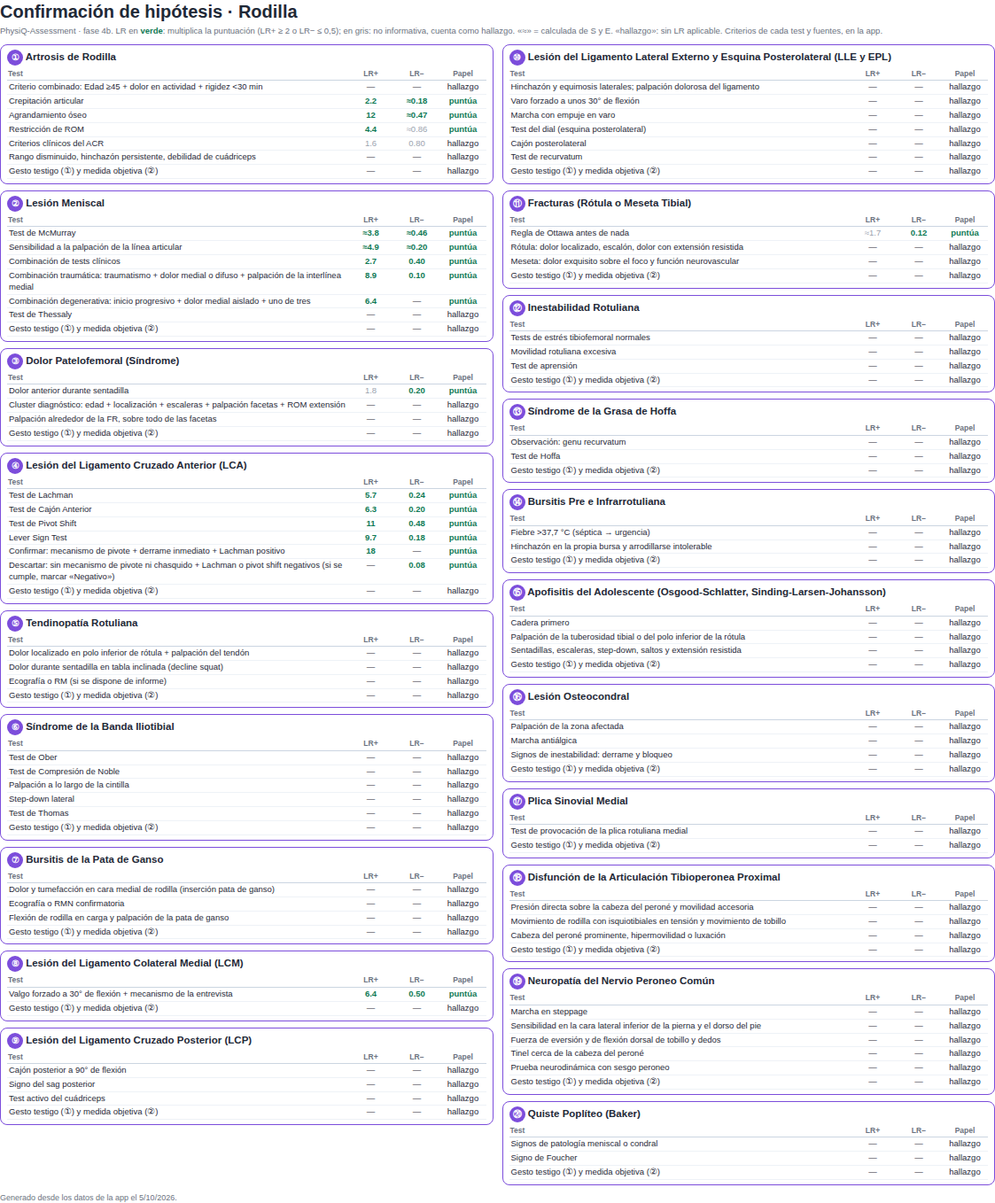
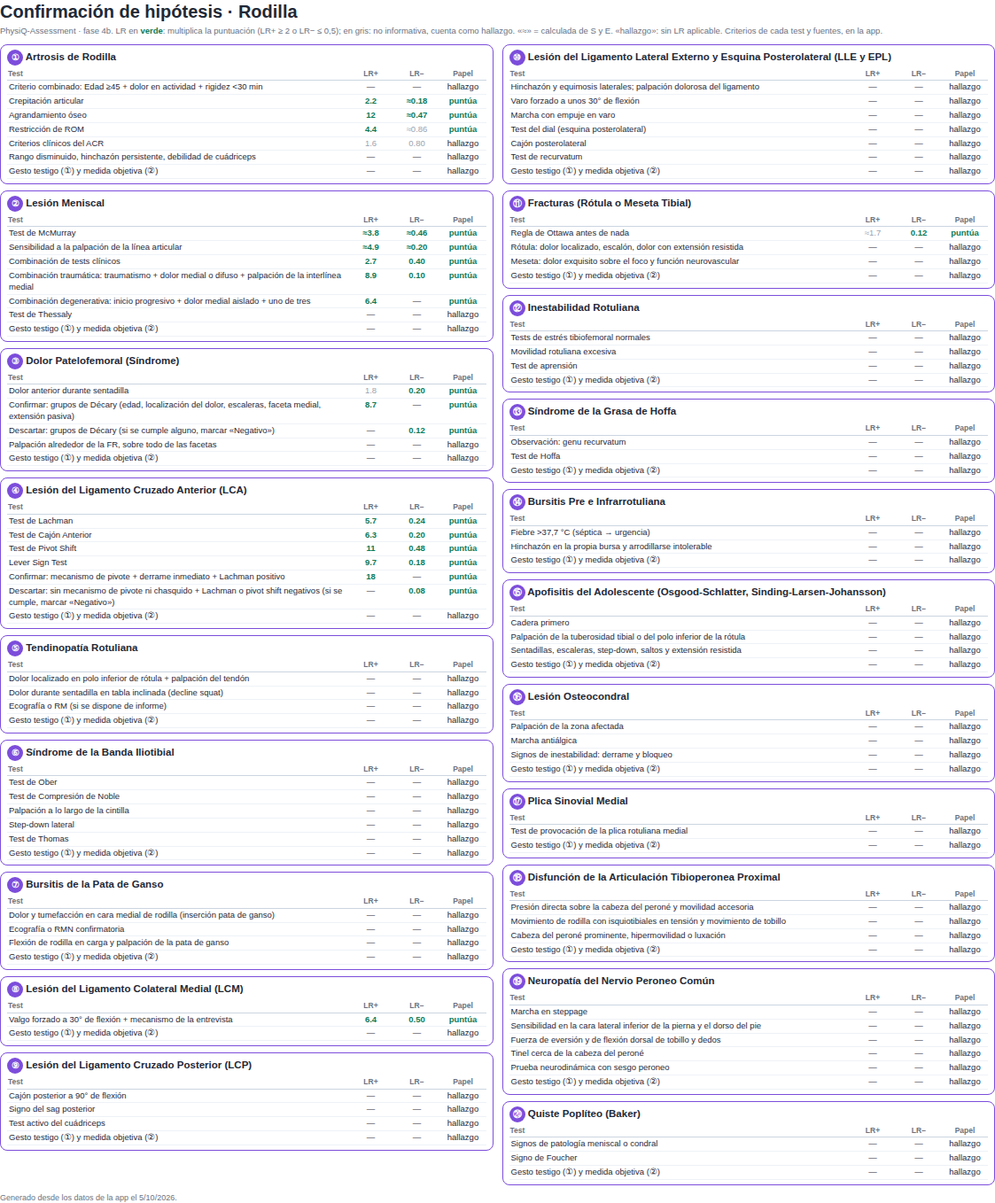
Rodilla: grupos de Décary en ro3 y guía JOSPT de dolor femoropatelar completa
Cambia la puntuación de la fase 4b: el cluster de ro3 pasa de hallazgo a dos tests (confirmar LR+ 8,70; descartar LR− 0,12; Décary 2018, tablas 3 y 4, PDF del usuario). La pauta de ro3 suma lo que no choca de Willy 2019 (resumen de recomendaciones leído); en vendaje, rodilleras y ortesis manda la guía holandesa, más reciente.

diff --git a/data/rodilla.js b/data/rodilla.js
@@ -658,8 +658,8 @@ export const hypotheses = {
     id: 'ro3', region: 'rodilla', num: '③',
     name: 'Dolor Patelofemoral (Síndrome)',
     prom: 'KOOS-PF / Kujala / VISA-P',
-    dosis: 'Ejercicio centrado en el cuádriceps y/o la cadera durante al menos 6 a 12 semanas, mejor con supervisión de fisioterapia al menos en parte, en un programa estructurado cuyo volumen e intensidad se ajustan al dolor (certeza baja); prioridad a la educación. Reevaluar dolor (EVA) y función (Kujala) a las 6 y a las 12 semanas. Vendaje, rodillera u ortesis plantar solo como añadido al ejercicio si a las 6–12 semanas no hay un cambio clínicamente relevante (certeza muy baja), informando al paciente de la falta de pruebas. Sin infiltraciones y con prudencia con los analgésicos. Si a las 12 semanas no mejora, reconsiderar el diagnóstico. La guía JOSPT de 2019 gradúa el fortalecimiento de cadera y de cuádriceps como A y ponía el vendaje (B) y la ortesis plantar (A, en el pie hipermóvil) entre los tratamientos de entrada; se sigue la guía holandesa, más reciente. Ninguna de las dos fija series ni repeticiones: el volumen queda a criterio del clínico.',
-    dosisFuente: 'Ophey 2025, Knee Surg Sports Traumatol Arthrosc 33:457–469 (guía multidisciplinar holandesa, módulos 1–3; certeza GRADE como la da la guía) · Willy 2019, J Orthop Sports Phys Ther 49(9) (guía de práctica clínica APTA, figura del árbol de decisión; letra = grado de la recomendación)',
+    dosis: 'Ejercicio centrado en el cuádriceps y/o la cadera durante al menos 6 a 12 semanas, mejor con supervisión de fisioterapia al menos en parte, en un programa estructurado cuyo volumen e intensidad se ajustan al dolor (certeza baja); prioridad a la educación. Reevaluar dolor (EVA) y función (Kujala) a las 6 y a las 12 semanas. Vendaje, rodillera u ortesis plantar solo como añadido al ejercicio si a las 6–12 semanas no hay un cambio clínicamente relevante (certeza muy baja), informando al paciente de la falta de pruebas. Sin infiltraciones y con prudencia con los analgésicos. Si a las 12 semanas no mejora, reconsiderar el diagnóstico. La guía JOSPT de 2019 coincide en lo esencial: ejercicio combinado de cadera (musculatura posterolateral) y rodilla, en carga o sin carga, empezando si acaso por la cadera (A), y combinar intervenciones con el ejercicio como eje (A). Añade que no se usen punción seca ni terapia manual aislada (A), ni agentes físicos como ultrasonido, crioterapia, electroestimulación o láser (B), ni biofeedback (B); la reeducación de la carrera es opcional (C) y la educación sobre la carga, recomendable (F). Discrepan en los añadidos: la JOSPT admite vendaje rotuliano con el ejercicio a corto plazo (4 semanas, B) y ortesis plantares prefabricadas hasta 6 semanas si hay más pronación de lo normal (A), y desaconseja rodilleras y cintas (B); la holandesa, más reciente, los deja para cuando el ejercicio no basta tras 6–12 semanas, y es la que se sigue. Ninguna fija series ni repeticiones (la JOSPT dice que la dosis óptima no se conoce): el volumen queda a criterio del clínico.',
+    dosisFuente: 'Ophey 2025, Knee Surg Sports Traumatol Arthrosc 33:457–469 (guía multidisciplinar holandesa, módulos 1–3; certeza GRADE como la da la guía) · Willy 2019, J Orthop Sports Phys Ther 49(9):CPG1–CPG95 (guía de práctica clínica APTA, resumen de recomendaciones, pp. CPG2–CPG3; letra = grado de la recomendación)',
     pronostico: {
       horizonte: 'Diagnóstico clínico: la imagen solo sirve para descartar otras condiciones.',
       derivacion: 'Patogenia multifactorial. Se han descrito hiperalgesia generalizada y peor modulación del dolor: el modelo mecánico no lo explica todo.',
@@ -667,7 +667,8 @@ export const hypotheses = {
     },
     tests: [
       { name: 'Dolor anterior durante sentadilla', sn: '91%', sp: '50%', lr_pos: '1.8', lr_neg: '0.2', criterio: 'Alta sensibilidad: sin dolor en sentadilla, el dolor femoropatelar es poco probable. Dolor retrorrotuliano o perirotuliano durante la sentadilla. Positiva confirma poco.', fuente: 'Nunes 2013 (Phys Ther Sport 14:54–9; revisión sistemática con metaanálisis, 5 estudios, 2 de buena calidad)' },
-      { name: 'Cluster diagnóstico: edad + localización + escaleras + palpación facetas + ROM extensión', sn: null, sp: null, lr_pos: null, lr_neg: null, criterio: 'Edad, localización del dolor, dificultad para bajar escaleras, palpación de las facetas rotulianas y extensión pasiva de rodilla se combinan en varios grupos distintos: dos para confirmar (LR+ 8,7; IC 95 %: 5,2–14,6) y tres para descartar (LR− 0,12; IC 0,06–0,27). Qué elementos y umbrales lleva cada grupo está en el texto completo, que no se ha leído (solo el resumen); y los autores piden validación externa antes de usarlos en clínica: cuenta como hallazgo.', fuente: 'Décary 2018 (Arch Phys Med Rehabil 99:607–614; n = 279 consultas por la rodilla, 75 con dolor femoropatelar; referencia: diagnóstico compuesto de médico experto con imagen)' },
+      { name: 'Confirmar: grupos de Décary (edad, localización del dolor, escaleras, faceta medial, extensión pasiva)', sn: null, sp: null, lr_pos: '8.70', lr_neg: null, criterio: 'Positivo si se cumple uno de los dos grupos. Grupo 1: menos de 40 años Y (dolor anterior aislado O dolor a la palpación de la faceta rotuliana medial). Grupo 2: de 40 a 58 años Y dolor anterior aislado o difuso Y dificultad leve o moderada para bajar escaleras Y dolor a la palpación de la faceta medial Y extensión pasiva completa (comparada a ojo con el lado sano). → S 0,64 · E 0,93 · LR+ 8,70 (IC 95 %: 5,20–14,58; bootstrap 14,28). No publica LR−: sirve para confirmar. Grupos derivados sin validación externa, que los autores piden antes del uso clínico.', fuente: 'Décary 2018 (Arch Phys Med Rehabil 99:607–614; n = 279 consultas por la rodilla, 75 con dolor femoropatelar; referencia: diagnóstico compuesto de médico experto con radiografía y, si hacía falta, RM; tabla 3)' },
+      { name: 'Descartar: grupos de Décary (si se cumple alguno, marcar «Negativo»)', sn: null, sp: null, lr_pos: null, lr_neg: '0.12', criterio: 'Se cumple si hay uno de los tres grupos. Grupo 1: menos de 58 años Y dolor medial, lateral o posterior aislado Y sin dolor a la palpación de las facetas medial ni lateral. Grupo 2: menos de 58 años Y dolor difuso o lateral Y dolor a la palpación de la faceta medial o lateral Y extensión pasiva restringida. Grupo 3: 58 años o más. → descarta el dolor femoropatelar: S 0,92 · E 0,65 · LR− 0,12 (IC 95 %: 0,06–0,27; bootstrap 0,05). No publica LR+: un resultado positivo es solo un hallazgo. Grupos derivados sin validación externa.', fuente: 'Décary 2018 (Arch Phys Med Rehabil 99:607–614; n = 279 consultas por la rodilla, 75 con dolor femoropatelar; referencia: diagnóstico compuesto de médico experto con radiografía y, si hacía falta, RM; tabla 4)' },
       { name: 'Palpación alrededor de la FR, sobre todo de las facetas', sn: null, sp: null, lr_pos: null, lr_neg: null, criterio: 'La sentadilla es el test clínico propuesto; progresar la carga según irritabilidad: monopodal, step-down o más repeticiones. Palpación alrededor de la FR, sobre todo de las facetas.', fuente: 'Lluch 2020, cap. 4.2 (Courtney, Grindstaff, Hensley y Jayaseelan), p. 194' },
       { name: 'Gesto testigo (①) y medida objetiva (②)', sn: null, sp: null, lr_pos: null, lr_neg: null, criterio: '① Sentadilla bilateral o monopodal, o bajada de escalón, hasta donde tolere → EVA. ② Step-down desde escalón de altura fija: repeticiones en 30 s sin aumentar el dolor, o grados de flexión sin dolor.', fuente: 'Tarjeta de consulta rodilla (guía clínica de rodilla, ap. 5)' }
     ]

diff --git a/data/referencias.js b/data/referencias.js
@@ -121,7 +121,7 @@ export const REFERENCIAS = {
   'Dookie y Joseph 2023': { autores: 'Dookie y Joseph', titulo: 'Osteoid Osteoma', publicacion: 'StatPearls [Internet], NBK537279 (act. 2023-08-14)', doi: '', url: 'https://www.ncbi.nlm.nih.gov/books/NBK537279/', revision: null, nota: 'Capítulo de StatPearls (NCBI Bookshelf); PDF aportado por el usuario. La clave lleva el año de la última actualización del capítulo. Razonamiento del cribado de rodilla.' },
   'Downie 2013': { autores: 'Downie, Williams, Henschke, Hancock, Ostelo, de Vet, Macaskill, Irwig, van Tulder, Koes y Maher', titulo: 'Red flags to screen for malignancy and fracture in patients with low back pain: systematic review', publicacion: 'BMJ 347:f7095', doi: '10.1136/bmj.f7095', url: 'https://pmc.ncbi.nlm.nih.gov/articles/PMC3898572/', revision: null, nota: 'Texto completo en PMC3898572. Resume las dos revisiones Cochrane de banderas rojas (malignidad y fractura).' },
   'Durer 2024': { autores: 'Durer, Gasalberti y Shaikh', titulo: 'Ewing Sarcoma', publicacion: 'StatPearls [Internet], NBK559183 (act. 2024-01-08)', doi: '', url: 'https://www.ncbi.nlm.nih.gov/books/NBK559183/', revision: null, nota: 'Capítulo de StatPearls (NCBI Bookshelf); PDF aportado por el usuario. La clave lleva el año de la última actualización del capítulo. Razonamiento del cribado de rodilla.' },
-  'Décary 2018': { publicacion: 'PLoS One 13:e0198797 · PM R 10:472–482 · Arch Phys Med Rehabil 99(4):607–614 (tres artículos)', doi: '', revision: null, nota: 'Tres artículos distintos con la misma clave: la cita de cada uso dice la revista. DOI de cada uno (el campo doi admite uno solo): PLoS One (LCA) 10.1371/journal.pone.0198797; PM R (menisco) 10.1016/j.pmrj.2017.10.009; Arch Phys Med Rehabil (dolor femoropatelar, solo leído el resumen de PubMed en 2026-10) 10.1016/j.apmr.2017.10.014.' },
+  'Décary 2018': { publicacion: 'PLoS One 13:e0198797 · PM R 10:472–482 · Arch Phys Med Rehabil 99(4):607–614 (tres artículos)', doi: '', revision: null, nota: 'Tres artículos distintos con la misma clave: la cita de cada uso dice la revista. DOI de cada uno (el campo doi admite uno solo): PLoS One (LCA) 10.1371/journal.pone.0198797; PM R (menisco) 10.1016/j.pmrj.2017.10.009; Arch Phys Med Rehabil (dolor femoropatelar; PDF del usuario leído en 2026-10, tablas 3 y 4: los grupos para confirmar y descartar de ro3) 10.1016/j.apmr.2017.10.014.' },
   'Demont 2022': { publicacion: 'Musculoskelet Sci Pract', doi: '10.1016/j.msksp.2022.102640', revision: null },
   'Devillé 2000': { publicacion: '', doi: '10.1097/00007632-200005010-00016', revision: null },
   'Dobbs 2016': { publicacion: 'Manual Therapy', doi: '10.1016/j.math.2016.05.332', revision: null },
@@ -345,7 +345,7 @@ export const REFERENCIAS = {
   'Warden 2007': { publicacion: 'Am J Sports Med 35:427–36', doi: '10.1177/0363546506294858', revision: null },
   'Wenker y Quint 2023': { autores: 'Wenker y Quint', titulo: 'Ankylosing Spondylitis', publicacion: 'StatPearls [Internet], NBK470173 (act. 2023-06-20)', doi: '', url: 'https://www.ncbi.nlm.nih.gov/books/NBK470173/', revision: null, nota: 'Capítulo de StatPearls (NCBI Bookshelf); PDF aportado por el usuario. La clave lleva el año de la última actualización del capítulo. Razonamiento del cribado de cadera.' },
   'Williams 2025': { publicacion: 'J Man Manip Ther', doi: '10.1080/10669817.2024.2436403', revision: null },
-  'Willy 2019': { autores: 'Willy y cols.', titulo: 'Patellofemoral Pain: Clinical Practice Guidelines', publicacion: 'J Orthop Sports Phys Ther 49(9)', doi: '10.2519/jospt.2019.0302', url: 'https://www.orthopt.org/content/s/patellofemoral-pain-2019', revision: null, nota: 'Guía de práctica clínica APTA. Solo se ha podido leer la figura del árbol de decisión con los grados (PDF de orthopt.org, 2026-10); jospt.org está bloqueado. Pauta de ro3, donde manda Ophey 2025 por más reciente.' },
+  'Willy 2019': { autores: 'Willy, Hoglund, Barton, Bolgla, Scalzitti, Logerstedt, Lynch, Snyder-Mackler y McDonough', titulo: 'Patellofemoral Pain: Clinical Practice Guidelines Linked to the International Classification of Functioning, Disability and Health', publicacion: 'J Orthop Sports Phys Ther 49(9):CPG1–CPG95', doi: '10.2519/jospt.2019.0302', url: 'https://www.orthopt.org/content/s/patellofemoral-pain-2019', revision: null, nota: 'Guía de práctica clínica APTA; PDF del usuario (2026-10): resumen de recomendaciones (pp. CPG2–CPG3) y lagunas sobre la dosis. Pauta de ro3: se suma en lo que no choca; en vendaje, rodilleras y ortesis manda Ophey 2025, más reciente.' },
   'Wong 2022': {
     publicacion: 'Curr Rev Musculoskelet Med 15:38–52', doi: '10.1007/s12178-022-09745-8', nota: 'Solo para la técnica del test.',
     revision: { fecha: '2026-10', resultado: 'Sin cambios: solo describe la técnica, no aporta cifras.' }

diff --git a/MIGRATION_PLAN.md b/MIGRATION_PLAN.md
@@ -140,7 +140,7 @@ Orden sugerido: cadera → cervical → rodilla → hombro → auditoría de LR 
 - **Rodilla, verificación con los PDF** (aportados por el usuario). **Décary 2018, PLoS One** (n = 279, referencia: diagnóstico compuesto de médico experto con RM; grupos derivados, solo validación interna por bootstrap): pivote + derrame inmediato + Lachman positivo identifica la rotura COMPLETA con S 0,82, E 0,95, LR+ 17,5 (IC 9,8–31,5; bootstrap 12,4), sin LR−; la S 0,58 de la tarjeta es la del otro grupo (pivote + chasquido, S 0,58, E 0,94, LR+ 9,8) — errata de la tarjeta, propuesta de corrección pendiente de decisión del usuario. La regla de descarte (historia negativa de pivote o chasquido Y Lachman o pivot shift negativos) da LR− 0,08 (IC 0,03–0,24) para rotura parcial o completa, sin LR+. En `ro4` cada una puntúa solo en su dirección, y con `absorbe` sobre el Lachman (y el pivot shift en la de descarte). **Décary 2018, PM&R** (misma cohorte): menisco traumático (caída o pivote + dolor medial aislado o difuso + palpación de la interlínea medial) S 0,91, E 0,90, LR+ 8,9 (6,1–13,1), LR− 0,10 (0,03–0,28), con `absorbe` sobre la palpación de la interlínea que ya tenía `ro2`; degenerativo, LR+ 6,4 (4,0–10,4) sin LR−: la LR− 0,10 del resumen es de otros grupos (tabla 7, de descarte), así que la tarjeta hace bien en no copiarla. **Kastelein 2008** (Am J Med; atención primaria, 18–65 años, ≤5 semanas del traumatismo, n = 134, referencia RM): ≥1 de 2 en la historia (fuerza externa sobre la pierna, traumatismo en rotación) + dolor + laxidad en valgo a 30° → S 0,56, E 0,91, LR+ 6,4 (2,7–15,2), LR− 0,5 (0,3–0,8), igual que la tarjeta. **Altman 1986**: criterios clínicos (dolor + ≥3 de 6) S 95 %, E 69 %; clínicos + radiografía 91/86; no publica LR (las de la tarjeta están calculadas). Son criterios de clasificación frente a 107 controles con dolor de rodilla de otro origen (55 con AR). Puntúa como LR calculada, con `absorbe` sobre el criterio combinado, la crepitación y el agrandamiento óseo que ya tenía `ro1` (la misma evidencia contada tres veces). **Kim 2004** (Arthroscopy) es solo una nota técnica: describe el test MPP (técnica copiada al criterio) sin S ni E. Las cifras de la tarjeta (S 0,90, E 0,89) serían del estudio posterior de los mismos autores en Arthroscopy («The relationship between the MPP test and arthroscopically found medial patellar plica pathology»): pedir ese PDF; hasta entonces, la plica no puntúa.
 - **Rodilla, Kim 2007 y corrección de la tarjeta** (PDF del usuario). Kim 2007 (Arthroscopy 23:1303–1308) es el estudio de validación del test MPP: 172 rodillas, todas con artroscopia; tabla 2×2 51/13/6/102 → S 89,5 %, E 88,7 %, sin LR publicadas (calculadas: LR+ 7,9, LR− 0,12; la tarjeta redondea a 8,18 y 0,11). Nivel III, no consecutivos, controles con dolor en la interlínea lateral (casi todos rotura del menisco lateral) y test hecho por su autor sin cegamiento: los límites van en el criterio. Puntúa con LR calculadas, mismo criterio que Lequesne en cadera. El usuario aprobó corregir la tarjeta (guía-de-consulta, `data/tarjeta_rodilla.js`, SINDROMES «LCA»): «S 0,58» pasa a «S 0,82» (Décary 2018, PLoS One, tabla 6).
 - **Rodilla, plica como hallazgo** (decisión del usuario, tras releer la tabla 2×2 de Kim 2007): las 13 rodillas del grupo con dolor anteromedial sin plica patológica (7 franjas sinoviales de la grasa de Hoffa, 5 sinovitis, 1 cartílago) son exactamente los 13 falsos positivos, así que la E en ese grupo fue 0 de 13; los 102 verdaderos negativos son todos controles con dolor en la interlínea lateral. En PhysiQ la plica se activa desde el dolor medial (`ro_step5`), donde el diferencial real (menisco medial, artrosis, FR, Hoffa) es justo la población sin especificidad demostrada. El test de `ro17` deja de puntuar (S y E solo en el criterio, con la explicación); la tarjeta no se toca: sus cifras son las del artículo.
-- **Rodilla, huecos cerrados (2026-10)** (fuentes leídas en la sesión; textos completos salvo donde se dice): **tests sin fuente** — Lachman, cajón anterior, pivot shift y Lever de `ro4` = Sokal 2022 (KSSTA, metaanálisis bivariante, PMC; tabla 4): pasan de rangos sin fuente a S/E únicas con su LR publicada (Lachman 5,72/0,24; cajón 6,34/0,20; pivot 10,70/0,48; Lever 9,66/0,18) y **ahora puntúan los cuatro** (antes no, por ser rangos). Huang 2022 (Medicine, del mismo año, univariante) se descarta por el método. El cluster de `ro3` = Décary 2018 (Arch Phys Med Rehabil; solo el resumen: LR+ 8,7 / LR− 0,12 para varios grupos cuya composición no se ha leído): sigue como hallazgo; con el PDF podría puntuar. Palpación y sentadilla declinada de `ro5` = guía holandesa (Ophey 2025, criterios diagnósticos), Cook 2001 y Mendonça 2016 (resúmenes; referencia ecográfica): hallazgos; se retira «más sensible que la sentadilla plana» (sin fuente). Ober y Noble de `ro6` = Lluch (S/E desconocidas). `ro7` = Lluch, Rennie y Saifuddin 2005 y Uysal 2015 (20 % en artrosis); se retira «a 2 cm distal a la meseta» (sin fuente). **Ottawa**: dos revisiones posteriores a Bachmann 2004 (Sims 2020, Kazemi 2023); por la regla de conflictos manda la más reciente: `ro11` pasa a S 98 %, E 43 %, LR− 0,12 (antes 0,05; sigue puntuando, con menos peso) y se actualiza el razonamiento de `ro_t1`. **Pittsburgh** (paso 1b) = Seaberg y Jackson 1994 y Seaberg 1998 (resúmenes); «no da cuatro pasos» pasa a «no puede caminar», que es lo que dice el estudio original. **Pautas**: `ro1` NICE NG226; `ro2` Logerstedt 2018; `ro3` Ophey 2025 (conflicto con Willy 2019 resuelto por la más reciente); `ro4`, `ro8`–`ro10` Logerstedt 2017; `ro5` Ophey 2025 + Lopes 2025 (Cochrane); `ro6` Sanchez-Alvarado 2024; `ro12` Balcarek 2025 (ESSKA). `ro7` queda en `dosis: ''` (sin fuente para la pauta anterior). Las 20 filas «Gesto testigo ①②» siguen citando la tarjeta: son instrucciones de medida de la guía de consulta, sin cifras que verificar. El recuadro de urgencia (texto literal de la tarjeta) no se toca; sus cifras de Ottawa (S 98–100 %, E ≈50 %) se parecen a las de las revisiones (S 98–99 %, E 43–49 %).
+- **Rodilla, huecos cerrados (2026-10)** (fuentes leídas en la sesión; textos completos salvo donde se dice): **tests sin fuente** — Lachman, cajón anterior, pivot shift y Lever de `ro4` = Sokal 2022 (KSSTA, metaanálisis bivariante, PMC; tabla 4): pasan de rangos sin fuente a S/E únicas con su LR publicada (Lachman 5,72/0,24; cajón 6,34/0,20; pivot 10,70/0,48; Lever 9,66/0,18) y **ahora puntúan los cuatro** (antes no, por ser rangos). Huang 2022 (Medicine, del mismo año, univariante) se descarta por el método. El cluster de `ro3` = Décary 2018 (Arch Phys Med Rehabil, PDF del usuario, tablas 3 y 4): se sustituye por dos tests que **ahora puntúan**, como los de Décary del LCA: «Confirmar» (2 grupos; LR+ 8,70, sin LR−) y «Descartar» (3 grupos; si se cumple, «Negativo»; LR− 0,12, sin LR+). Derivados sin validación externa. El test nuevo desplaza un puesto la palpación de facetas y la fila ①② de `ro3` en sesiones antiguas. Palpación y sentadilla declinada de `ro5` = guía holandesa (Ophey 2025, criterios diagnósticos), Cook 2001 y Mendonça 2016 (resúmenes; referencia ecográfica): hallazgos; se retira «más sensible que la sentadilla plana» (sin fuente). Ober y Noble de `ro6` = Lluch (S/E desconocidas). `ro7` = Lluch, Rennie y Saifuddin 2005 y Uysal 2015 (20 % en artrosis); se retira «a 2 cm distal a la meseta» (sin fuente). **Ottawa**: dos revisiones posteriores a Bachmann 2004 (Sims 2020, Kazemi 2023); por la regla de conflictos manda la más reciente: `ro11` pasa a S 98 %, E 43 %, LR− 0,12 (antes 0,05; sigue puntuando, con menos peso) y se actualiza el razonamiento de `ro_t1`. **Pittsburgh** (paso 1b) = Seaberg y Jackson 1994 y Seaberg 1998 (resúmenes); «no da cuatro pasos» pasa a «no puede caminar», que es lo que dice el estudio original. **Pautas**: `ro1` NICE NG226; `ro2` Logerstedt 2018; `ro3` Ophey 2025 + Willy 2019 (PDF del usuario: lo que no choca se suma; vendaje, rodilleras y ortesis, por la más reciente); `ro4`, `ro8`–`ro10` Logerstedt 2017; `ro5` Ophey 2025 + Lopes 2025 (Cochrane); `ro6` Sanchez-Alvarado 2024; `ro12` Balcarek 2025 (ESSKA). `ro7` queda en `dosis: ''` (sin fuente para la pauta anterior). Las 20 filas «Gesto testigo ①②» siguen citando la tarjeta: son instrucciones de medida de la guía de consulta, sin cifras que verificar. El recuadro de urgencia (texto literal de la tarjeta) no se toca; sus cifras de Ottawa (S 98–100 %, E ≈50 %) se parecen a las de las revisiones (S 98–99 %, E 43–49 %).
 - **Hombro** (una sesión, 2026-09): mapeo aprobado por el usuario antes de tocar nada, con las tres recomendaciones (inestabilidad posterior dentro de `h4`, renombrada «Inestabilidad Glenohumeral (Anterior o Posterior)»; el O'Brien de `h5` sin tocar hasta tener fuente; luxación bloqueada y fractura en una sola hipótesis). Fase 2: la tarjeta no tiene URGENCIA (en hombro todo va a derivación médica, no a urgencias hoy), así que ninguna pregunta lleva `urgencia`; sistemas nuevos `h_trauma` (fractura o luxación no reducida, con el test de aprensión ósea y la percusión olécranon-manubrio), `h_infeccion` y `h_neuro`, una pregunta cada uno; la fila «Tumor» de la tarjeta, literal, en `banderasRojas` de `h_cancer`; «Origen visceral» ya lo cubrían `h_cardio` y `h_gi`. Árbol: paso nuevo `h_step2b` (nodo 2b) justo después de `h_step2`; único cambio querido en opciones existentes: el SÍ de `h_step2` ya no activa `h1`, lo reparte el 2b (traumatismo → `h11`, mayor edad + crepitación → `h10`, resto → `h1`), y de ahí se sigue a `h_step3` como antes. Opción nueva en `h_step3`, «Episodio concreto o aprensión», → `h4`. El orden de la tarjeta (bisagra antes que cervical) no se copia: el cribado cervical de `h_step1` se queda primero. Hipótesis nuevas `h10` (artrosis GH) y `h11` (luxación bloqueada o fractura → Rx), con `dosis: ''` y sin `pronostico` (la tarjeta no les da fila). `pronostico` literal en `h1`–`h5` y `h7`. Tests nuevos al final de `h1`–`h5` y `h7` (① y ② de cada ficha, regla clínica de SAPS, criterio de Bunker, inspección y clusters A/B del manguito, aprensión en conjunto y grupo posterior, Paxinos + O'Brien, movilidad pasiva sin restricción en AC), todos como hallazgo; la palpación AC, la aducción cruzada y el O'Brien existentes solo ganan las cifras de la tarjeta en el criterio, en su mismo índice y sin cambiar su puntuación. LR: el proxy bloqueó PubMed, PMC y Europe PMC, así que ninguna cifra nueva puntúa. Pedir los PDF de: Park 2005 (cluster A, LR+ 15,6), Litaker 2000 (cluster B, LR+ 9,8), la fuente de la palpación AC (S 96 %, E 10 %) y de la aducción horizontal (S >67 %, E 79 %; `h7` hoy puntúa 77/79 calculado, sin fuente), Paxinos + O'Brien (S y E >90 %) y la compresión activa (S 72 %, E 52 %; con esas cifras el O'Brien de `h5`, que hoy multiplica ×3 por el extremo bajo de «3–50», sería un hallazgo). Sin tocar (preexistente, sin fuente): las LR de aprensión, recolocación y sorpresa de `h4` (20,2 / 10,4 / 8,3; la tarjeta solo dice «S y E >72 %») y las dosis de `h1`–`h9`. Formulario: `formularios/hombro.js`, cara 2 literal; las instrucciones de salto del papel pasan a `mostrarSi` («Si se le ha salido») o a la ayuda de la pregunta del deporte.
 - **Hombro, verificación con los PDF** (aportados por el usuario). **Park 2005** (J Bone Joint Surg Am 87:1446–55; 552 operados con artroscopia, controles con otras cirugías de hombro): arco doloroso + drop arm + debilidad en RE (test del infraespinoso; positivo por debilidad, dolor o signo de retraso en RE) para rotura COMPLETA: los tres positivos 50/153 frente a 4/195 → LR+ 15,57; los tres negativos 14/153 frente a 114/195 → LR− 0,16 (tabla V). La tarjeta solo da la LR+. En `h3` van como «confirmar» y «descartar», igual que Décary en rodilla; «confirmar» absorbe el drop arm, el signo de retraso en RE (misma evidencia que el test del infraespinoso) y el cluster B (los dos incluyen la debilidad en RE). **Litaker 2000** (J Am Geriatr Soc 48:1633–7; 448 derivados a artrografía, prevalencia 67 %, rotura parcial o completa, retrospectivo): no es «tres positivos», sino una puntuación: debilidad en RE 2 + edad ≥65 2 + dolor nocturno 1, positiva con ≥4, así que bastan debilidad en RE y edad ≥65. La LR+ 9,84 de la tarjeta es la del grupo de derivación (43/131 frente a 2/60); en el de validación, con la tabla 4, sale 5,0 (52/146 frente a 5/70), que es la que puntúa (decisión del usuario). No publica LR− para ese punto de corte. El usuario aprobó corregir la tarjeta (guía-de-consulta, `data/tarjeta_hombro.js`, SINDROMES «Rotura del manguito»): ahora dice «Cluster B: edad ≥65 + debilidad en RE (± dolor nocturno) → LR+ 9,8 en la derivación, 5,0 en la validación». **Chronopoulos 2004** (Am J Sports Med 32:655–61; 35 lesiones AC crónicas aisladas frente a 580 controles quirúrgicos, casos y controles; los casos se definieron por dolor localizado, dolor a la palpación y alivio con infiltración, así que la palpación no se puede evaluar con este estudio): aducción cruzada S 77 % (27/35), E 79 % (410/518), que confirma las cifras que ya tenía `h7` (ahora con fuente; sigue puntuando calculada); compresión activa para la AC S 41 %, E 95 % → test nuevo al final de `h7` (LR+ calculada 8,2; la LR− 0,62 es un hallazgo). 
 - **Hombro, Walton 2004** (J Bone Joint Surg Am 86:807–12, PDF del usuario; prospectivo, 38 pacientes que ya señalan el dolor en la zona AC, prevalencia 74 %, referencia: alivio ≥50 % con infiltración de la AC guiada por imagen; solo 10 controles). Palpación AC S 96 % (27/28), E 10 % (1/10), como la tarjeta: LR+ 1,07, y la LR− calculada (0,36) descansa en un único control, así que en `h7` es un hallazgo con fuente (S y E solo en el criterio). Paxinos S 79 %, E 50 % → test nuevo al final de `h7`, también hallazgo (LR− calculada 0,42 con 10 controles). **Error de la tarjeta:** la combinación de Walton no es Paxinos + O'Brien, sino Paxinos + gammagrafía ósea (los dos positivos LR+ 55; los dos negativos LR− 0,03; con 0,1 sumado a cada casilla, 9 controles); O'Brien solo tiene S 16 %, E 90 %. El usuario aprobó corregir la tarjeta (guía-de-consulta, `data/tarjeta_hombro.js`, `SINDROMES.nota`): ahora dice «Paxinos + gammagrafía ósea, los dos positivos, dan LR+ 55; los dos negativos, LR− 0,03 (Ampliar)»; en `h7` el test combinado se renombra así y sigue como hallazgo (la gammagrafía no se hace en consulta). La compresión activa de O'Brien para la AC pasa a hallazgo (decisión del usuario): Chronopoulos (casos y controles) da LR+ 8,2 y Walton (prospectivo) 1,6, evidencia contradictoria; las dos cifras van en el criterio.

diff --git a/docs/referencias.md b/docs/referencias.md
@@ -13,10 +13,10 @@ Lo que es de la referencia y no de cada uso (revista, DOI, última revisión) vi
 
 ## Resumen
 
-- **244** referencias de literatura, con **822** usos.
+- **244** referencias de literatura, con **823** usos.
 - **4** tarjetas de consulta (repo guia-de-consulta), con **199** usos, basadas en Lluch 2020.
 - **19** de 244 referencias del registro revisadas. Ver «Estado de revisión».
-- **52** de 441 tests sin `fuente` (0 de ellos puntúan en la fase 4b). Ver «Tests sin fuente».
+- **52** de 442 tests sin `fuente` (0 de ellos puntúan en la fase 4b). Ver «Tests sin fuente».
 
 ## Cómo revisar una referencia
 
@@ -70,7 +70,7 @@ pero no mueve la puntuación; «cribado fase 2» = respalda un criterio que disp
 | [Reiman 2014](#reiman-2014) | puntuación 4b · test 4b sin puntuar · texto | 6 | **sin revisar** |
 | [Smith 2015](#smith-2015) | puntuación 4b | 2 | **sin revisar** |
 | [Genevay 2017](#genevay-2017) | puntuación 4b | 1 | **sin revisar** |
-| [Décary 2018](#décary-2018) | puntuación 4b · test 4b sin puntuar | 5 | **sin revisar** |
+| [Décary 2018](#décary-2018) | puntuación 4b | 6 | **sin revisar** |
 | [Park 2019](#park-2019) | puntuación 4b · test 4b sin puntuar | 2 | **sin revisar** |
 | [Campbell 2020](#campbell-2020) | puntuación 4b | 2 | **sin revisar** |
 | [Getsoian 2020](#getsoian-2020) | puntuación 4b | 1 | **sin revisar** |
@@ -1310,23 +1310,25 @@ Citada como:
 Publicación: PLoS One 13:e0198797 · PM R 10:472–482 · Arch Phys Med Rehabil 99(4):607–614 (tres artículos)  
 DOI: —  
 Última revisión: **sin revisar**  
-Nota: Tres artículos distintos con la misma clave: la cita de cada uso dice la revista. DOI de cada uno (el campo doi admite uno solo): PLoS One (LCA) 10.1371/journal.pone.0198797; PM R (menisco) 10.1016/j.pmrj.2017.10.009; Arch Phys Med Rehabil (dolor femoropatelar, solo leído el resumen de PubMed en 2026-10) 10.1016/j.apmr.2017.10.014.
+Nota: Tres artículos distintos con la misma clave: la cita de cada uso dice la revista. DOI de cada uno (el campo doi admite uno solo): PLoS One (LCA) 10.1371/journal.pone.0198797; PM R (menisco) 10.1016/j.pmrj.2017.10.009; Arch Phys Med Rehabil (dolor femoropatelar; PDF del usuario leído en 2026-10, tablas 3 y 4: los grupos para confirmar y descartar de ro3) 10.1016/j.apmr.2017.10.014.
 
 Citada como:
 
 1. Décary 2018 (PM&R; n = 279, 35 roturas traumáticas; referencia: diagnóstico compuesto de médico experto con RM)
 2. Décary 2018 (PM&R; n = 279, 45 roturas degenerativas; referencia: diagnóstico compuesto de médico experto con RM)
-3. Décary 2018 (Arch Phys Med Rehabil 99:607–614; n = 279 consultas por la rodilla, 75 con dolor femoropatelar; referencia: diagnóstico compuesto de médico experto con imagen)
-4. Décary 2018 (PLoS One; n = 279, 22 roturas completas; referencia: diagnóstico compuesto de médico experto con RM)
-5. Décary 2018 (PLoS One; n = 279, 43 roturas parciales o completas; referencia: diagnóstico compuesto de médico experto con RM)
+3. Décary 2018 (Arch Phys Med Rehabil 99:607–614; n = 279 consultas por la rodilla, 75 con dolor femoropatelar; referencia: diagnóstico compuesto de médico experto con radiografía y, si hacía falta, RM; tabla 3)
+4. Décary 2018 (Arch Phys Med Rehabil 99:607–614; n = 279 consultas por la rodilla, 75 con dolor femoropatelar; referencia: diagnóstico compuesto de médico experto con radiografía y, si hacía falta, RM; tabla 4)
+5. Décary 2018 (PLoS One; n = 279, 22 roturas completas; referencia: diagnóstico compuesto de médico experto con RM)
+6. Décary 2018 (PLoS One; n = 279, 43 roturas parciales o completas; referencia: diagnóstico compuesto de médico experto con RM)
 
 | Región | Hipótesis | Dónde | Fase | Cita |
 |---|---|---|---|---|
 | Rodilla | ro2 · Lesión Meniscal | Test «Combinación traumática: traumatismo + dolor medial o difuso + palpación de la interlínea medial» | 4b · cita bajo el test | 1 |
 | Rodilla | ro2 · Lesión Meniscal | Test «Combinación degenerativa: inicio progresivo + dolor medial aislado + uno de tres» | 4b · cita bajo el test | 2 |
-| Rodilla | ro3 · Dolor Patelofemoral (Síndrome) | Test «Cluster diagnóstico: edad + localización + escaleras + palpación facetas + ROM extensión» | 4b · cita bajo el test | 3 |
-| Rodilla | ro4 · Lesión del Ligamento Cruzado Anterior (LCA) | Test «Confirmar: mecanismo de pivote + derrame inmediato + Lachman positivo» | 4b · cita bajo el test | 4 |
-| Rodilla | ro4 · Lesión del Ligamento Cruzado Anterior (LCA) | Test «Descartar: sin mecanismo de pivote ni chasquido + Lachman o pivot shift negativos (si se cumple, marcar «Negativo»)» | 4b · cita bajo el test | 5 |
+| Rodilla | ro3 · Dolor Patelofemoral (Síndrome) | Test «Confirmar: grupos de Décary (edad, localización del dolor, escaleras, faceta medial, extensión pasiva)» | 4b · cita bajo el test | 3 |
+| Rodilla | ro3 · Dolor Patelofemoral (Síndrome) | Test «Descartar: grupos de Décary (si se cumple alguno, marcar «Negativo»)» | 4b · cita bajo el test | 4 |
+| Rodilla | ro4 · Lesión del Ligamento Cruzado Anterior (LCA) | Test «Confirmar: mecanismo de pivote + derrame inmediato + Lachman positivo» | 4b · cita bajo el test | 5 |
+| Rodilla | ro4 · Lesión del Ligamento Cruzado Anterior (LCA) | Test «Descartar: sin mecanismo de pivote ni chasquido + Lachman o pivot shift negativos (si se cumple, marcar «Negativo»)» | 4b · cita bajo el test | 6 |
 
 ### Demont 2022
 
@@ -4243,7 +4245,7 @@ Nota: Guía de práctica clínica (AGREE II y GRADE); texto completo leído en P
 
 Citada como:
 
-1. Ophey 2025, Knee Surg Sports Traumatol Arthrosc 33:457–469 (guía multidisciplinar holandesa, módulos 1–3; certeza GRADE como la da la guía) · Willy 2019, J Orthop Sports Phys Ther 49(9) (guía de práctica clínica APTA, figura del árbol de decisión; letra = grado de la recomendación)
+1. Ophey 2025, Knee Surg Sports Traumatol Arthrosc 33:457–469 (guía multidisciplinar holandesa, módulos 1–3; certeza GRADE como la da la guía) · Willy 2019, J Orthop Sports Phys Ther 49(9):CPG1–CPG95 (guía de práctica clínica APTA, resumen de recomendaciones, pp. CPG2–CPG3; letra = grado de la recomendación)
 2. Ophey 2025 (Knee Surg Sports Traumatol Arthrosc 33:457–469; guía multidisciplinar holandesa, módulo 4; certeza GRADE muy baja); Cook 2001 (Br J Sports Med 35:65–9; 326 tendones de jóvenes jugadores de baloncesto; referencia: ecografía)
 3. Lluch 2020, cap. 4.2 (Courtney, Grindstaff, Hensley y Jayaseelan), pp. 192–193; Ophey 2025 (Knee Surg Sports Traumatol Arthrosc 33:457–469; guía multidisciplinar holandesa, módulo 4; certeza GRADE muy baja); Mendonça 2016 (J Orthop Sports Phys Ther 46:673–80; 43 deportistas con dolor en el tendón rotuliano; referencia: ecografía)
 4. Ophey 2025, Knee Surg Sports Traumatol Arthrosc 33:457–469 (guía multidisciplinar holandesa, módulos 5–7; certeza GRADE muy baja) · Lopes 2025, Cochrane Database Syst Rev 5:CD013078 (revisión sistemática, 7 ensayos, 211 deportistas)
@@ -5380,16 +5382,16 @@ Citada como:
 
 ### Willy 2019
 
-Autores: Willy y cols.  
-Título: *Patellofemoral Pain: Clinical Practice Guidelines*  
-Publicación: J Orthop Sports Phys Ther 49(9)  
+Autores: Willy, Hoglund, Barton, Bolgla, Scalzitti, Logerstedt, Lynch, Snyder-Mackler y McDonough  
+Título: *Patellofemoral Pain: Clinical Practice Guidelines Linked to the International Classification of Functioning, Disability and Health*  
+Publicación: J Orthop Sports Phys Ther 49(9):CPG1–CPG95  
 DOI: 10.2519/jospt.2019.0302  
 Última revisión: **sin revisar**  
-Nota: Guía de práctica clínica APTA. Solo se ha podido leer la figura del árbol de decisión con los grados (PDF de orthopt.org, 2026-10); jospt.org está bloqueado. Pauta de ro3, donde manda Ophey 2025 por más reciente.
+Nota: Guía de práctica clínica APTA; PDF del usuario (2026-10): resumen de recomendaciones (pp. CPG2–CPG3) y lagunas sobre la dosis. Pauta de ro3: se suma en lo que no choca; en vendaje, rodilleras y ortesis manda Ophey 2025, más reciente.
 
 Citada como:
 
-1. Ophey 2025, Knee Surg Sports Traumatol Arthrosc 33:457–469 (guía multidisciplinar holandesa, módulos 1–3; certeza GRADE como la da la guía) · Willy 2019, J Orthop Sports Phys Ther 49(9) (guía de práctica clínica APTA, figura del árbol de decisión; letra = grado de la recomendación)
+1. Ophey 2025, Knee Surg Sports Traumatol Arthrosc 33:457–469 (guía multidisciplinar holandesa, módulos 1–3; certeza GRADE como la da la guía) · Willy 2019, J Orthop Sports Phys Ther 49(9):CPG1–CPG95 (guía de práctica clínica APTA, resumen de recomendaciones, pp. CPG2–CPG3; letra = grado de la recomendación)
 
 | Región | Hipótesis | Dónde | Fase | Cita |
 |---|---|---|---|---|

diff --git a/docs/dosis-pendientes-fuentes.md b/docs/dosis-pendientes-fuentes.md
@@ -42,7 +42,7 @@ Leyenda:
 |---|---|---|---|---|
 | ro1 | Artrosis | ✅ **Hecho** (2026-10) · B | NICE NG226 (nice.org.uk, sin actualizar desde 2022) | Ejercicio terapéutico adaptado («offer»), supervisado y con educación («consider»), pérdida de peso, terapia manual solo con ejercicio, sin acupuntura, punción seca ni electroterapia, ayudas para la marcha, ortesis solo en casos concretos. Sin volumen |
 | ro2 | Menisco | ✅ **Hecho** (2026-10) · B | Logerstedt 2018, JOSPT 48(2):A1–A50 (PDF de orthopt.org) | Movilidad, fuerza de rodilla y cadera y neuromuscular (B); tras meniscectomía, supervisado + casa (B) y electroestimulación (B). Centrada en el posoperatorio; sin volumen |
-| ro3 | Dolor femoropatelar | ✅ **Hecho** (2026-10) · B | Ophey 2025, KSSTA 33:457–469 (guía holandesa, PMC) · Willy 2019, JOSPT 49(9) (solo la figura del árbol de decisión; jospt.org bloqueado) | Ejercicio de cuádriceps y/o cadera 6–12 semanas, ajustado al dolor; vendaje, rodillera u ortesis solo si no mejora. **Conflicto:** Willy 2019 ponía el vendaje (B) y la ortesis plantar (A) de entrada; se sigue la holandesa, más reciente y del mismo nivel |
+| ro3 | Dolor femoropatelar | ✅ **Hecho** (2026-10) · B | Ophey 2025, KSSTA 33:457–469 (guía holandesa, PMC) · Willy 2019, JOSPT 49(9):CPG1–CPG95 (PDF del usuario) | Ejercicio de cuádriceps y/o cadera 6–12 semanas, ajustado al dolor; de Willy se suma lo que no choca (sin punción seca ni terapia manual aislada, A; sin agentes físicos ni biofeedback, B; carrera C; educación F). **Conflicto:** Willy admite vendaje (B) y ortesis plantar prefabricada (A) con el ejercicio desde el inicio y desaconseja rodilleras (B); la holandesa, más reciente y del mismo nivel, los deja para cuando el ejercicio no basta. Willy: la dosis óptima no se conoce |
 | ro4 | LCA | ✅ **Hecho** (2026-10) · B | Logerstedt 2017, JOSPT 47(11):A1–A47 (PDF de orthopt.org) | Reeducación neuromuscular con fuerza (A), ortesis funcional en la insuficiencia (C); el resto, y el único volumen (2–3 veces por semana, 6–10 meses, A), es tras la reconstrucción |
 | ro5 | Tendinopatía rotuliana | ✅ **Hecho** (2026-10) · B | Ophey 2025 · Lopes 2025 (Cochrane, resumen) | Plan en cuatro fases, fuerza progresiva ≥12 semanas (resistencia pesada y lenta; isométricos si hay dolor reactivo), cinta infrarrotuliana si no mejora. Certeza muy baja; la Cochrane no puede asegurar el efecto. La pauta anterior (isométricos 5 × 45 s) no tenía fuente |
 | ro6 | Cintilla iliotibial | ✅ **Hecho** (2026-10) · B | Sanchez-Alvarado 2024, Front Sports Act Living (revisión sistemática, PMC) | Fortalecimiento de abductores de cadera, 4–8 semanas, mejor con terapia manual u ondas de choque. Evidencia baja, solo corredores, sin guía |
